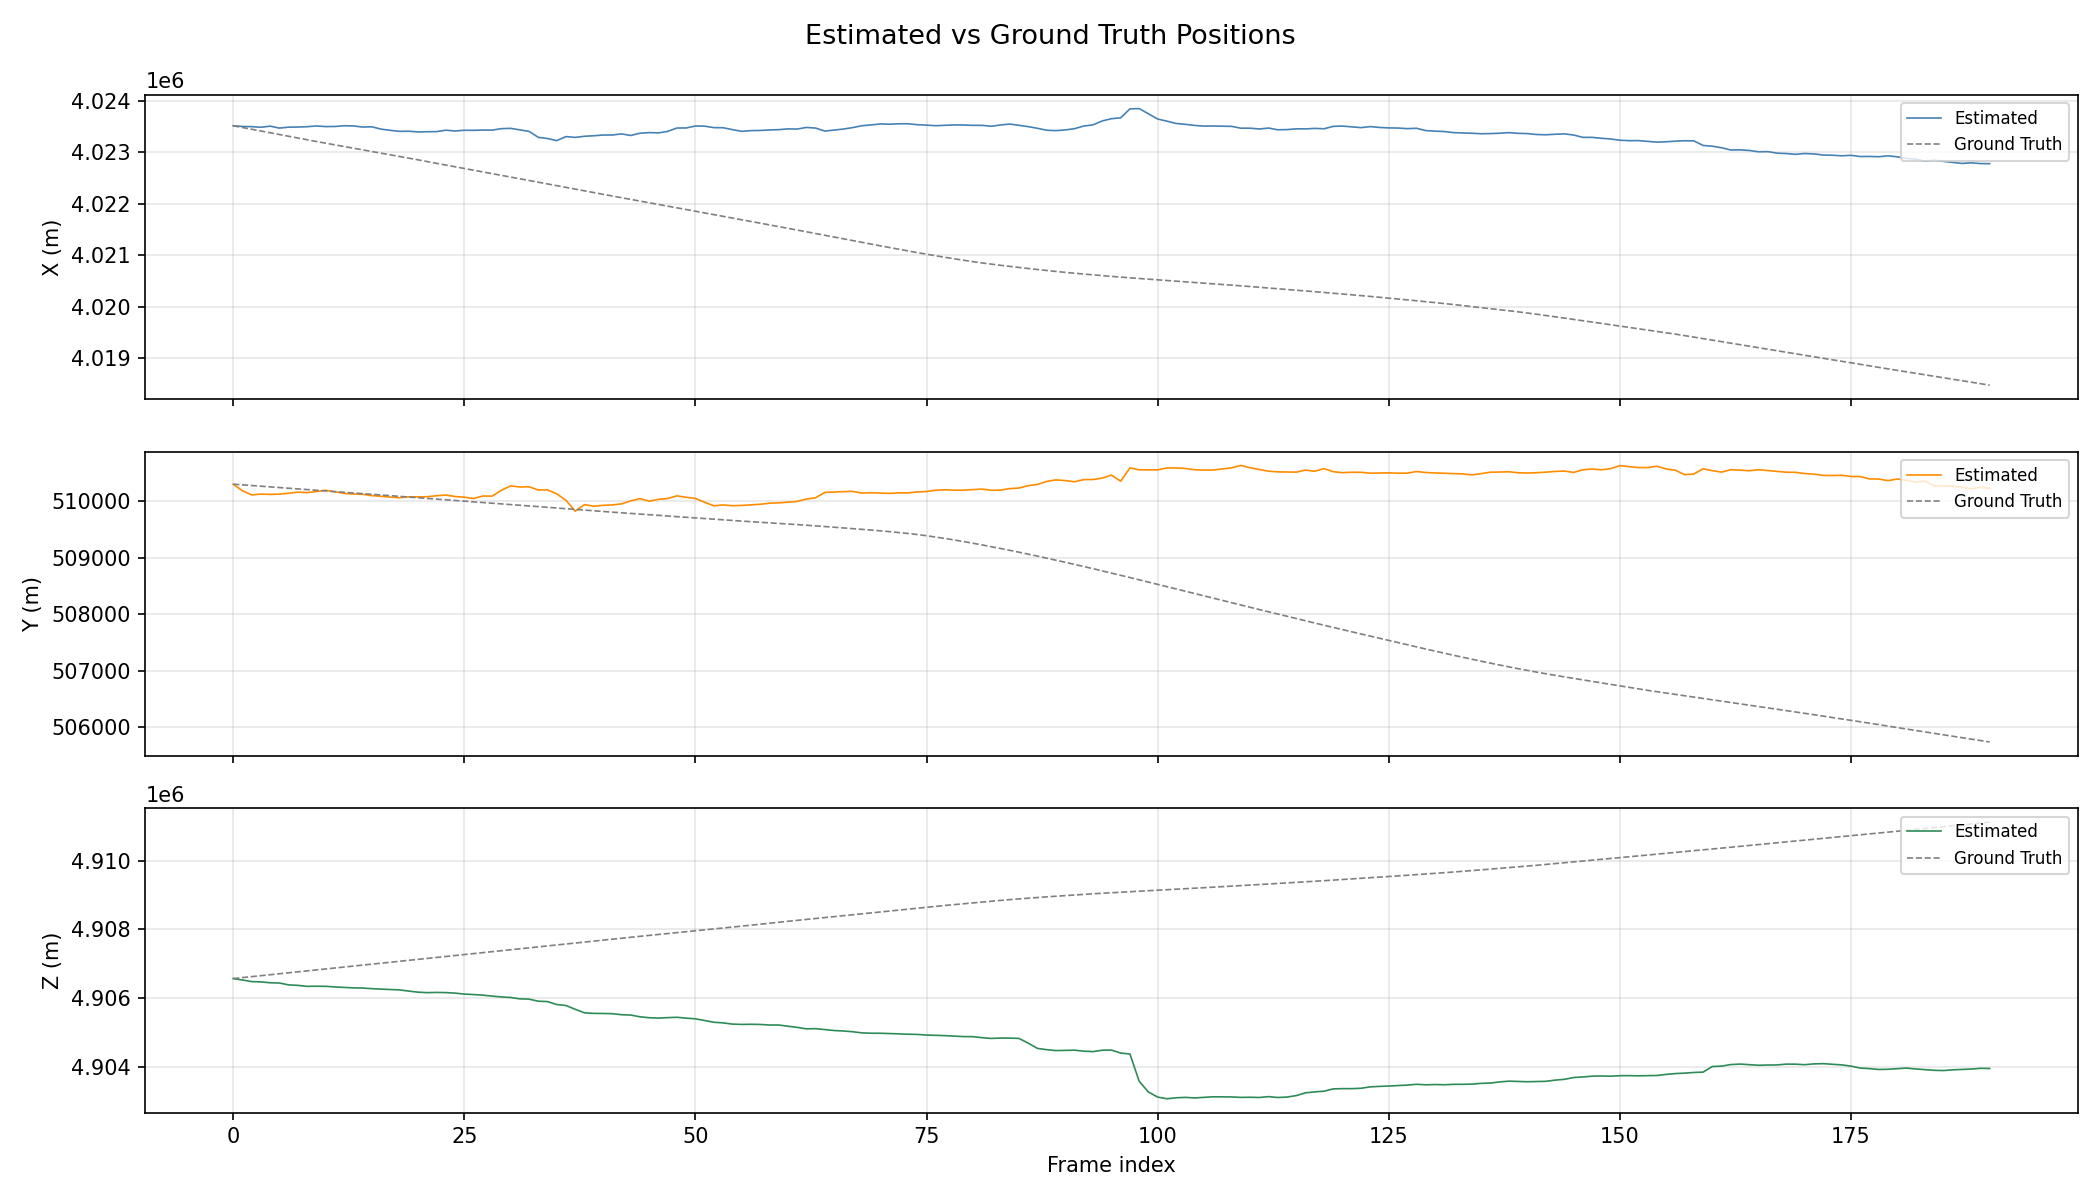
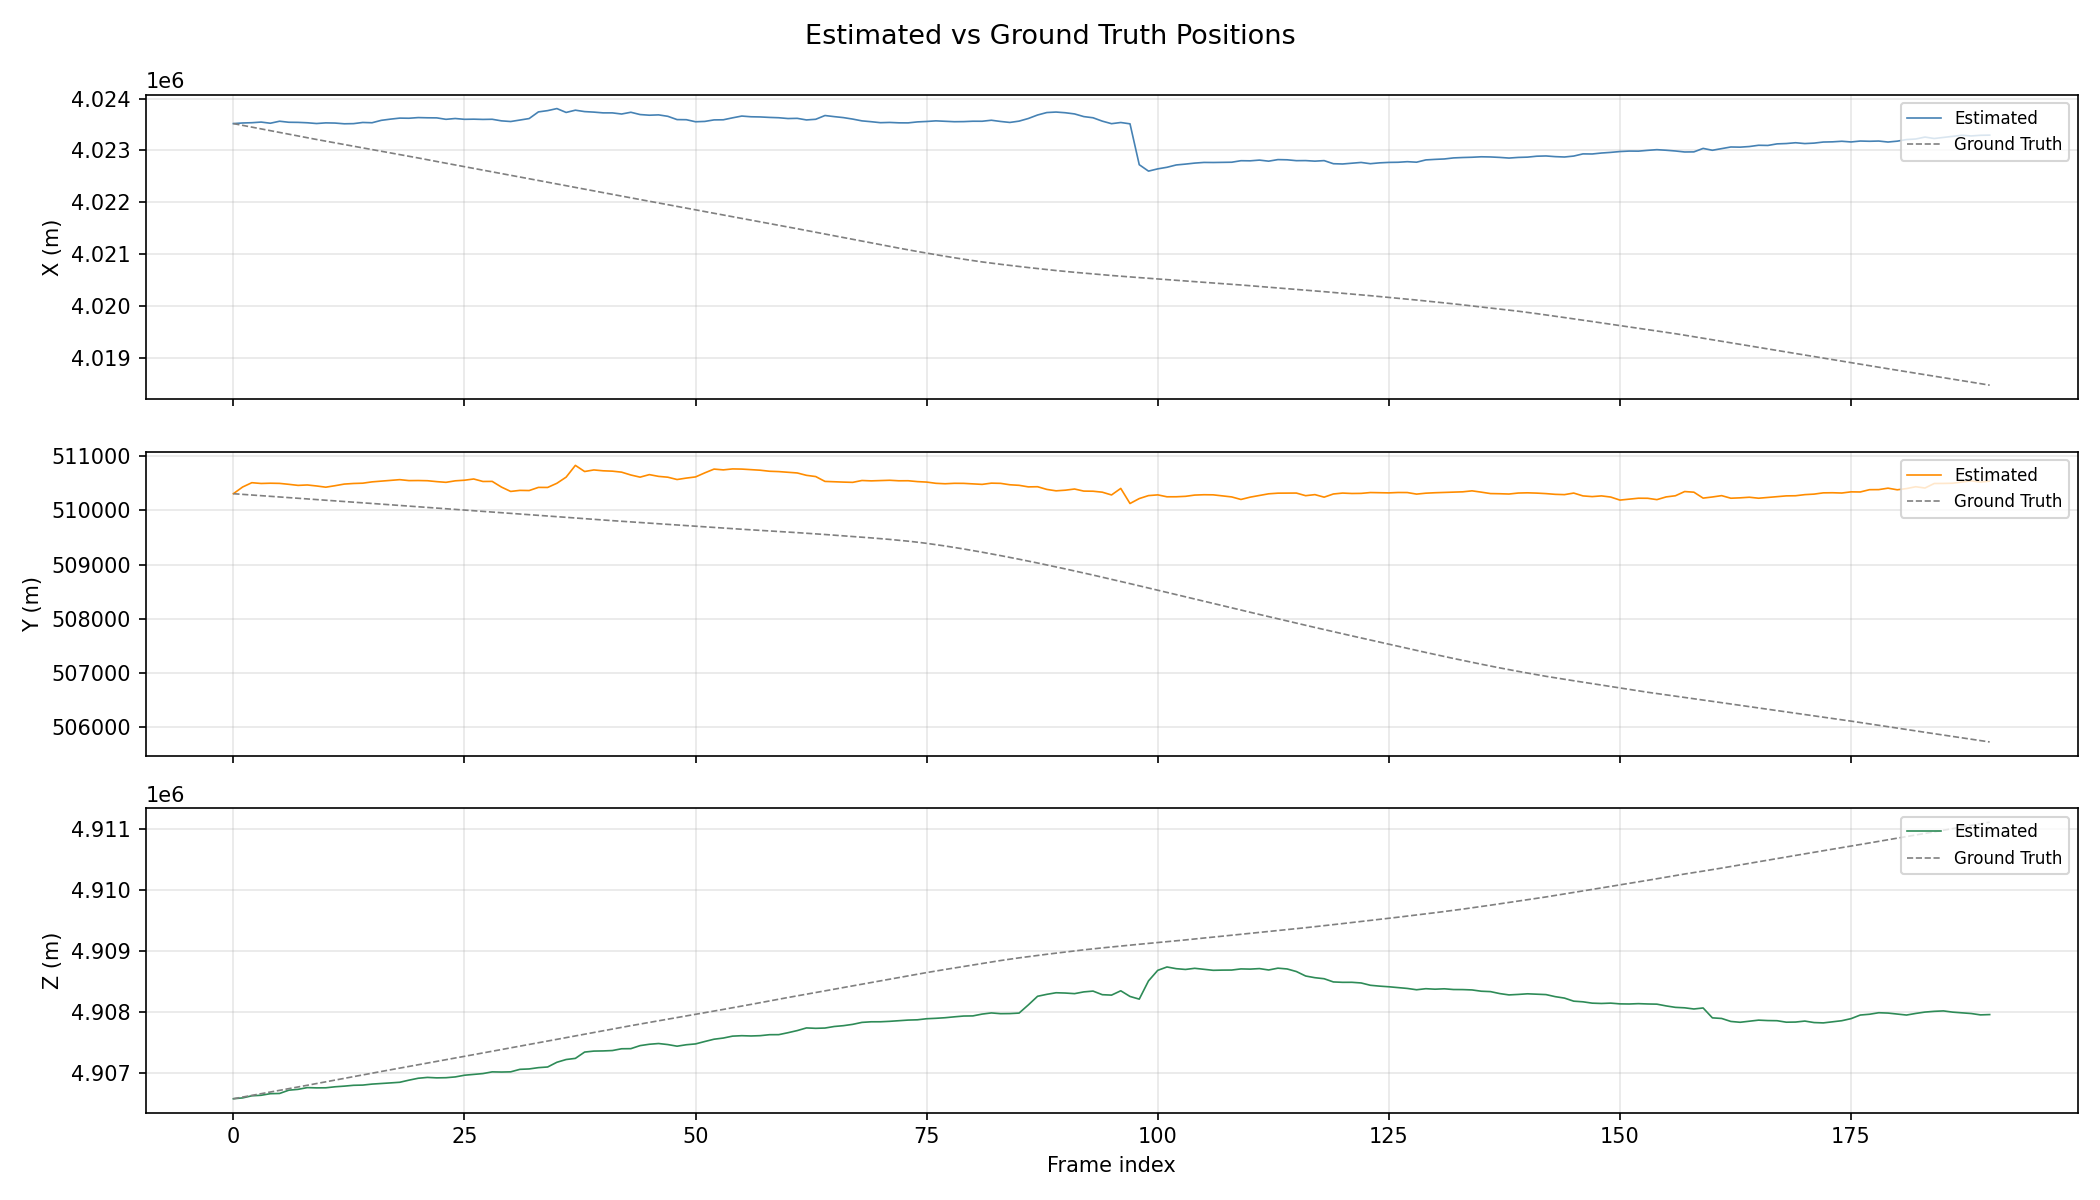
prepared for merging

diff --git a/mr_icia/pipeline.py b/mr_icia/pipeline.py
@@ -310,6 +310,19 @@ def load_vpair_poses(pose_file: str) -> list:
             })
     return poses
 
+def compute_relative_angles(gt_poses: list) -> list:
+    """
+    Convert absolute GT poses into relative frame-to-frame rotations.
+    Assumes angles are already in degrees (converted in load_vpair_poses).
+    """
+    relative = []
+    for i in range(len(gt_poses) - 1):
+        d_roll  = gt_poses[i+1]["roll"]  - gt_poses[i]["roll"]
+        d_pitch = gt_poses[i+1]["pitch"] - gt_poses[i]["pitch"]
+        d_yaw   = gt_poses[i+1]["yaw"]   - gt_poses[i]["yaw"]
+        relative.append((d_roll, d_pitch, d_yaw))
+    return relative
+
 
 def compute_rmse_vpair(
     estimated_step_angles: list,
@@ -569,7 +582,7 @@ def main():
 
 
     for i in range(len(frames) - 10):
-    # for i in range(40):
+    # for i in range(10):
         T = frames[i]
         I = frames[i + 1]
 
@@ -611,7 +624,8 @@ def main():
 
     # --- RMSE evaluation ---
     if gt_poses:
-        rmse = compute_rmse_vpair(estimated_step_angles, gt_absolute_angles[1:])
+        gt_relative = compute_relative_angles(gt_poses)
+        rmse = compute_rmse_vpair(estimated_angles, gt_relative)
         print("\n--- RMSE vs ground truth ---")
         print(f"  Roll:  {rmse['roll_rmse']:.4f}°")
         print(f"  Pitch: {rmse['pitch_rmse']:.4f}°")
@@ -623,9 +637,9 @@ def main():
     # --- Save results to CSV ---
     out_path = Path(args.output)
     with open(out_path, "w", newline="") as f:
-        writer = csv.DictWriter(f, fieldnames=absolute_pose_results[0].keys())
+        writer = csv.DictWriter(f, fieldnames=gt_poses[0].keys())
         writer.writeheader()
-        writer.writerows(absolute_pose_results)
+        writer.writerows(gt_poses)
     print(f"\nResults saved to {out_path}")
 
 

diff --git a/mr_icia/pose.py b/mr_icia/pose.py
@@ -35,7 +35,6 @@ def recover_pose(Hp: np.ndarray, K: np.ndarray) -> tuple:
     Returns:
         R:      3x3 rotation matrix.
         t:      3x1 translation vector (scaled by distance to plane).
-        n:      3x1 normal vector.
         angles: Tuple (roll, pitch, yaw) in degrees.
     """
     K_inv = np.linalg.inv(K)
@@ -56,13 +55,13 @@ def recover_pose(Hp: np.ndarray, K: np.ndarray) -> tuple:
     num_solutions, Rs, Ts, Ns = cv2.decomposeHomographyMat(He, np.eye(3))
 
     # Step 4: Select the physically correct solution
-    R, t, n = _select_solution(Rs, Ts, Ns, num_solutions)
+    R, t = _select_solution(Rs, Ts, Ns, num_solutions)
 
     # Step 5: Euler angles from R (eq. 15)
     roll, pitch, yaw = rotation_to_euler(R)
     roll, pitch, yaw = rotation_to_euler(R)
 
-    return R, t*altitude, (roll, pitch, yaw)
+    return R, t, (roll, pitch, yaw)
 
 
 def _select_solution(
@@ -83,7 +82,7 @@ def _select_solution(
         num_solutions: Number of valid solutions returned by OpenCV.
 
     Returns:
-        (R, t, n) of the best solution.
+        (R, t) of the best solution.
     """
     ground_normal = np.array([0.0, 0.0, 1.0])
     best_idx   = 0
@@ -107,10 +106,9 @@ def _select_solution(
             best_score = score
             best_idx   = i
 
-    return Rs[best_idx], np.array(Ts[best_idx]).ravel(), Ns[best_idx]
+    return Rs[best_idx], np.array(Ts[best_idx]).ravel()
 
 
-def rotation_to_euler(R: np.ndarray) -> tuple:
 def rotation_to_euler(R: np.ndarray) -> tuple:
     """
     Extract roll, pitch, yaw (in degrees) from a rotation matrix.